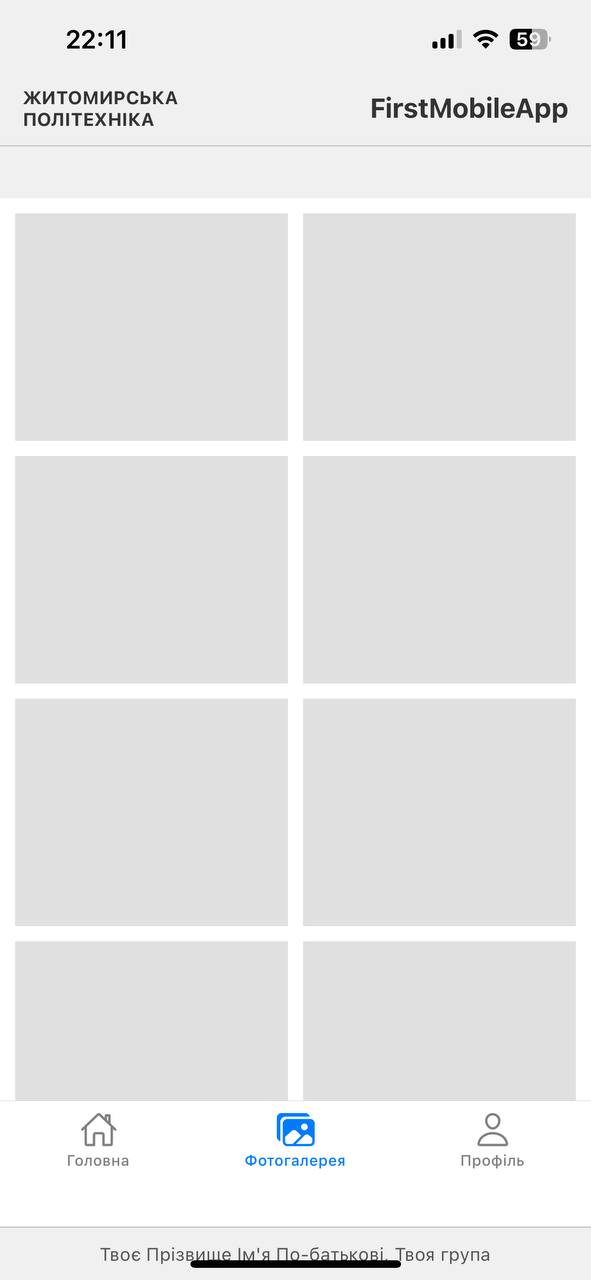
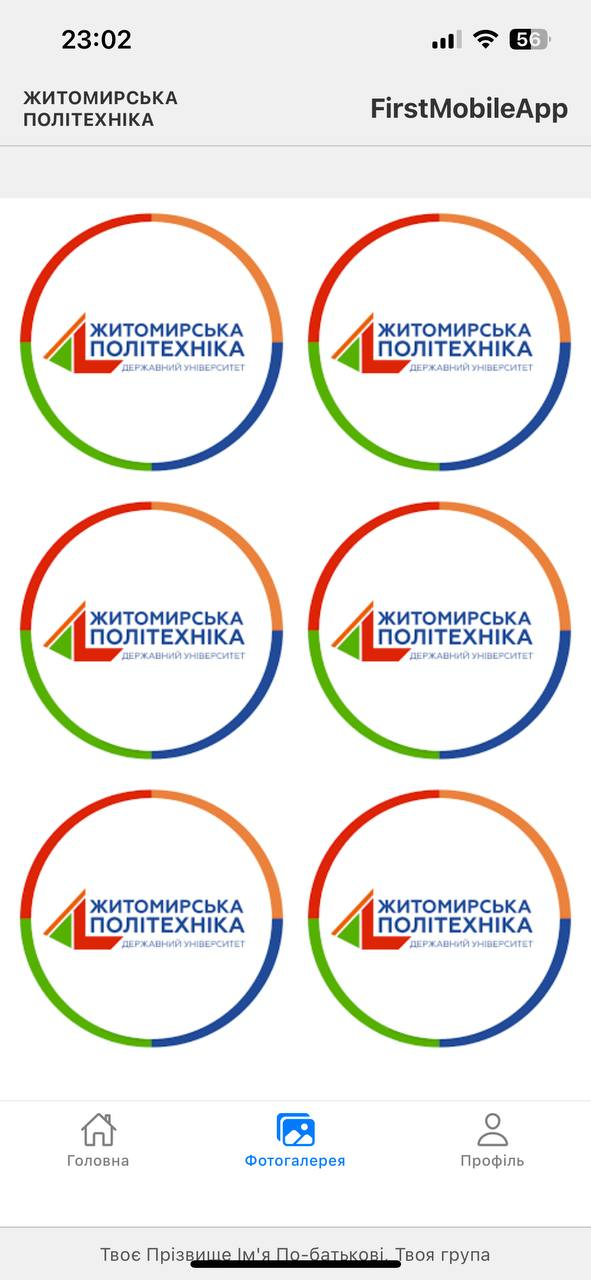
Додав вивід картинок у програмі

diff --git a/lab1/FirstMobileApp/screens/HomeScreen.js b/lab1/FirstMobileApp/screens/HomeScreen.js
@@ -1,21 +1,24 @@
 import React from 'react';
-import { View, Text, StyleSheet, ScrollView, FlatList, Image } from 'react-native';
+import { View, Text, StyleSheet, FlatList, Image } from 'react-native'; // Додали Image
 
+// Оновимо newsData, додавши поле для зображення
 const newsData = [
-  // Приклад даних, можна додати більше
-  { id: '1', title: 'Заголовок новини 1', date: 'Дата новини', shortText: 'Короткий текст новини тут...' },
-  { id: '2', title: 'Заголовок новини 2', date: 'Дата новини', shortText: 'Короткий текст новини тут...' },
-  { id: '3', title: 'Заголовок новини 3', date: 'Дата новини', shortText: 'Короткий текст новини тут...' },
-  { id: '4', title: 'Заголовок новини 4', date: 'Дата новини', shortText: 'Короткий текст новини тут...' },
-  { id: '5', title: 'Заголовок новини 5', date: 'Дата новини', shortText: 'Короткий текст новини тут...' },
-  { id: '6', title: 'Заголовок новини 6', date: 'Дата новини', shortText: 'Короткий текст новини тут...' },
-  { id: '7', title: 'Заголовок новини 7', date: 'Дата новини', shortText: 'Короткий текст новини тут...' },
-  { id: '8', title: 'Заголовок новини 8', date: 'Дата новини', shortText: 'Короткий текст новини тут...' },
+  { id: '1', title: 'Заголовок новини 1', date: 'Дата новини', shortText: 'Короткий текст новини тут...', image: require('../assets/images.png') }, // Шлях до зображення
+  { id: '2', title: 'Заголовок новини 2', date: 'Дата новини', shortText: 'Короткий текст новини тут...', image: require('../assets/images.png') },
+  { id: '3', title: 'Заголовок новини 3', date: 'Дата новини', shortText: 'Короткий текст новини тут...', image: require('../assets/images.png') },
+  // Додай інші новини з відповідними шляхами до зображень
+  // Якщо для якоїсь новини немає зображення, можна залишити null або заглушку
+  { id: '4', title: 'Заголовок новини 4 (без фото)', date: 'Дата новини', shortText: 'Короткий текст новини тут...', image: null },
 ];
 
-const NewsItem = ({ title, date, shortText }) => (
+// Оновимо NewsItem для відображення зображення
+const NewsItem = ({ title, date, shortText, image }) => ( // Додали image в props
   <View style={styles.newsItem}>
-    <View style={styles.imagePlaceholder} />
+    {image ? (
+      <Image source={image} style={styles.newsImage} />
+    ) : (
+      <View style={[styles.newsImage, styles.imagePlaceholder]} /> // Заглушка, якщо немає фото
+    )}
     <View style={styles.newsTextContainer}>
       <Text style={styles.newsTitle}>{title}</Text>
       <Text style={styles.newsDate}>{date}</Text>
@@ -30,7 +33,7 @@ const HomeScreen = () => {
       <Text style={styles.screenTitle}>Новини</Text>
       <FlatList
         data={newsData}
-        renderItem={({ item }) => <NewsItem title={item.title} date={item.date} shortText={item.shortText} />}
+        renderItem={({ item }) => <NewsItem title={item.title} date={item.date} shortText={item.shortText} image={item.image} />} // Передаємо image
         keyExtractor={item => item.id}
         style={styles.list}
       />
@@ -59,16 +62,15 @@ const styles = StyleSheet.create({
     borderBottomColor: '#eee',
     alignItems: 'center',
   },
-  imagePlaceholder: {
-    width: 60,
-    height: 60,
-    backgroundColor: '#ccc', // Колір заглушки
+  newsImage: { // Стилі для зображення новини
+    width: 80,
+    height: 80,
     marginRight: 15,
-    // Можна додати іконку, якщо є
-    // justifyContent: 'center',
-    // alignItems: 'center',
+    borderRadius: 5, // опціонально, для заокруглених кутів
   },
-  // placeholderIcon: { /* Стилі для іконки, якщо використовується */ },
+  imagePlaceholder: { // Стиль для заглушки, якщо немає фото
+    backgroundColor: '#ccc',
+  },
   newsTextContainer: {
     flex: 1,
   },

diff --git a/lab1/FirstMobileApp/screens/GalleryScreen.js b/lab1/FirstMobileApp/screens/GalleryScreen.js
@@ -1,24 +1,34 @@
 import React from 'react';
-import { View, Text, StyleSheet, ScrollView, FlatList } from 'react-native';
+import { View, Text, StyleSheet, FlatList, Image, Dimensions } from 'react-native'; // Додали Image та Dimensions
 
-// Генеруємо дані для галереї (8 елементів, 2 колонки)
-const galleryData = Array.from({ length: 10 }, (_, i) => ({ id: `gallery-${i}` }));
+// Генеруємо дані для галереї, тепер з посиланнями на зображення
+const galleryData = [
+  { id: 'gallery-1', image: require('../assets/images.png') },
+  { id: 'gallery-2', image: require('../assets/images.png') },
+  { id: 'gallery-3', image: require('../assets/images.png') },
+  { id: 'gallery-4', image: require('../assets/images.png') }, // Додай свої зображення
+  { id: 'gallery-5', image: require('../assets/images.png') },
+  { id: 'gallery-6', image: require('../assets/images.png') },
+  // ... і так далі, стільки, скільки потрібно
+];
 
-const GalleryItem = () => (
-  <View style={styles.galleryItem}>
-    {/* Це просто заглушка для зображення */}
+const numColumns = 2; // Кількість колонок
+const screenWidth = Dimensions.get('window').width; // Отримуємо ширину екрана
+
+const GalleryItem = ({ item }) => ( // item тепер містить { id, image }
+  <View style={styles.galleryItemContainer}>
+    <Image source={item.image} style={styles.galleryImage} resizeMode="cover" />
   </View>
 );
 
 const GalleryScreen = () => {
   return (
     <View style={styles.container}>
-       {/* <Text style={styles.screenTitle}>Фотогалерея</Text> // Заголовок екрану вже є в навігаторі та шапці */}
       <FlatList
         data={galleryData}
-        renderItem={({ item }) => <GalleryItem />}
+        renderItem={GalleryItem} // Передаємо весь item
         keyExtractor={item => item.id}
-        numColumns={2} // Для сітки з двох колонок
+        numColumns={numColumns}
         contentContainerStyle={styles.listContainer}
       />
     </View>
@@ -30,27 +40,20 @@ const styles = StyleSheet.create({
     flex: 1,
     backgroundColor: '#fff',
   },
-//   screenTitle: { // Якщо потрібен окремий заголовок всередині екрана
-//     fontSize: 24,
-//     fontWeight: 'bold',
-//     textAlign: 'center',
-//     marginVertical: 15,
-//   },
   listContainer: {
-    padding: 5,
+    paddingHorizontal: 5, // Горизонтальні відступи для всього списку
   },
-  galleryItem: {
-    flex: 1,
-    margin: 5,
-    height: 150, // Висота елемента галереї
-    backgroundColor: '#e0e0e0', // Колір заглушки
-    justifyContent: 'center',
-    alignItems: 'center',
-    // Тут можна буде додати Image
+  galleryItemContainer: {
+    flex: 1 / numColumns, // Розділяємо ширину на кількість колонок
+    margin: 5, // Відступи між елементами
+    aspectRatio: 1, // Робить елемент квадратним, можна налаштувати
+    // Висота елемента галереї тепер буде залежати від ширини та aspectRatio
   },
-  // galleryText: { // Якщо хочеш додати текст на заглушку
-  //   color: '#777',
-  // },
+  galleryImage: {
+    width: '100%',
+    height: '100%',
+    borderRadius: 8, // опціонально
+  },
 });
 
 export default GalleryScreen;

diff --git a/lab1/FirstMobileApp/README.md b/lab1/FirstMobileApp/README.md
@@ -23,10 +23,10 @@
 * Expo Vector Icons (для іконок навігації)
 
 **Головний екран (Новини):**
-![Головний екран](screenshots/gallery.jpg)
+![Головний екран](screenshots/home.jpg)
 
 **Екран Фотогалереї:**
-![Екран Фотогалереї](screenshots/photo_2025-05-29_22-20-02.jpg)
+![Екран Фотогалереї](screenshots/gallery.jpg)
 
 **Екран Профілю (Реєстрація):**
 ![Екран Профілю](screenshots/photo_2025-05-29_22-12-00.jpg)
